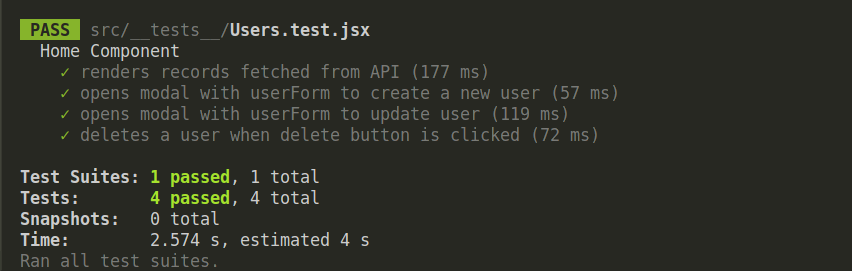
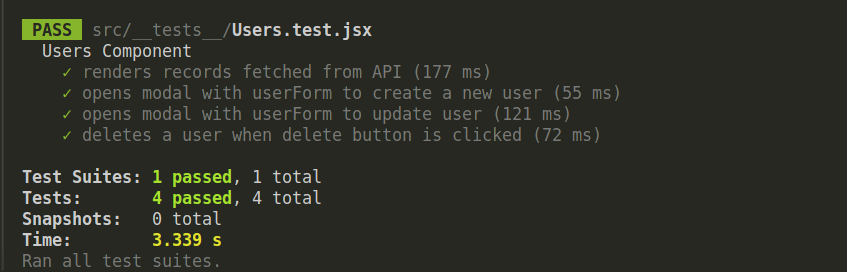
fix typo

Changed region(s): [[0.0, 0.059, 0.7367, 0.5314], [0.0, 0.6199, 0.4298, 1.0]]

diff --git a/frontend/src/__tests__/Users.test.jsx b/frontend/src/__tests__/Users.test.jsx
@@ -8,7 +8,7 @@ import UserForm from '../components/UserForm';
 
 jest.mock('axios');
 
-describe('Home Component', () => {
+describe('Users Component', () => {
 
   const mockData = {
     data: [
